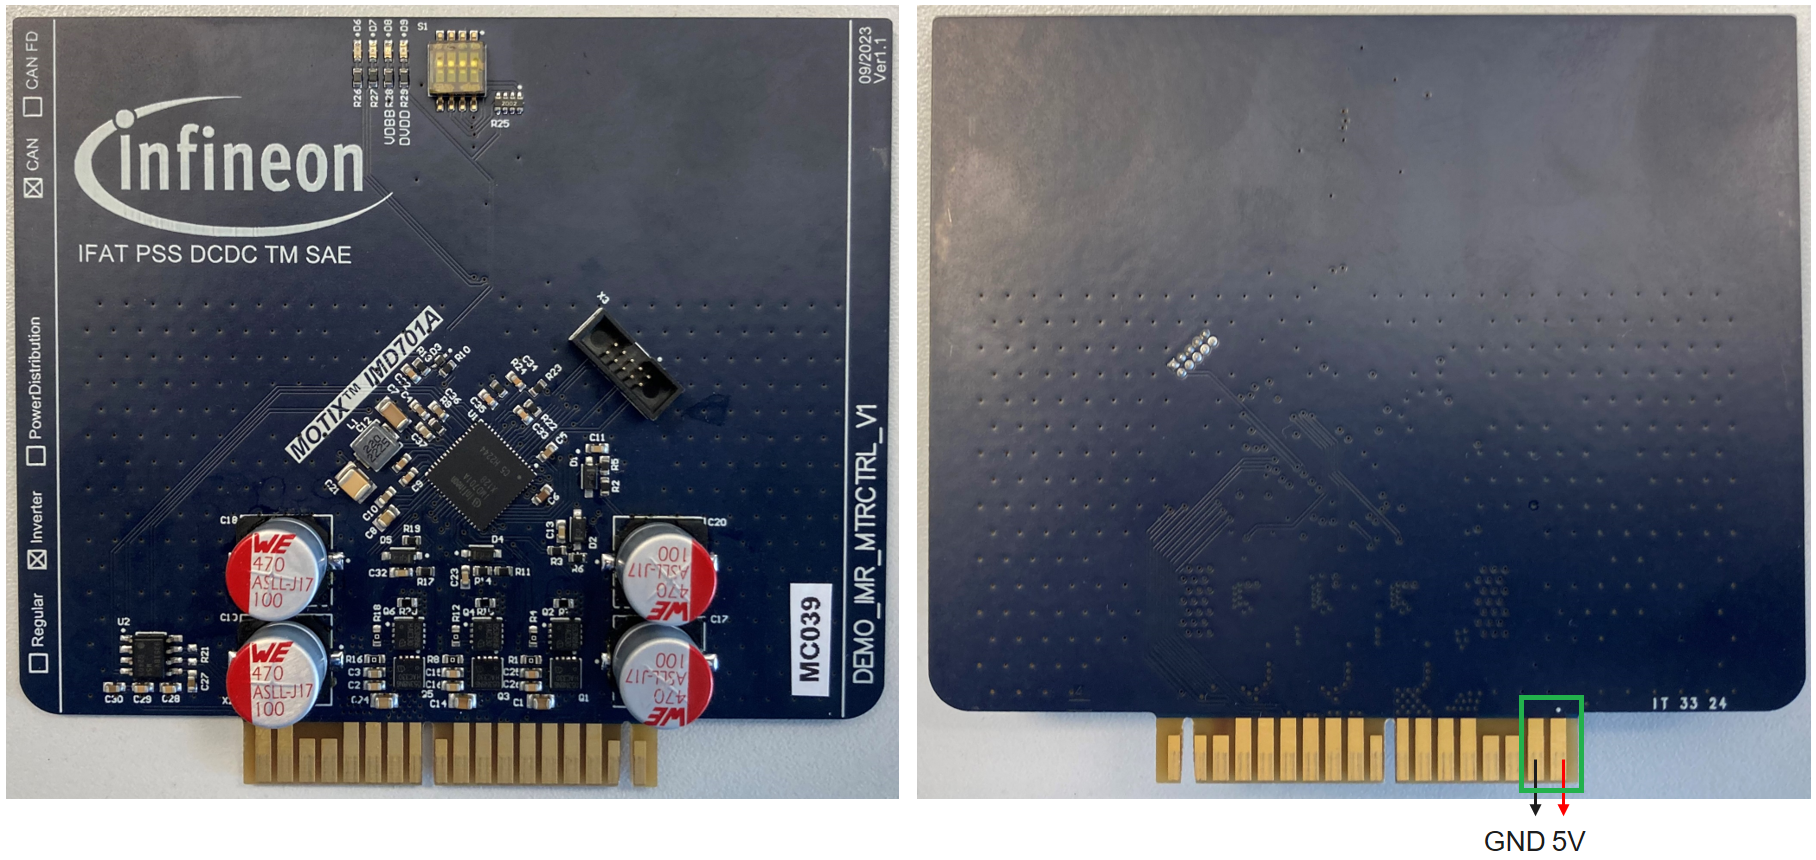
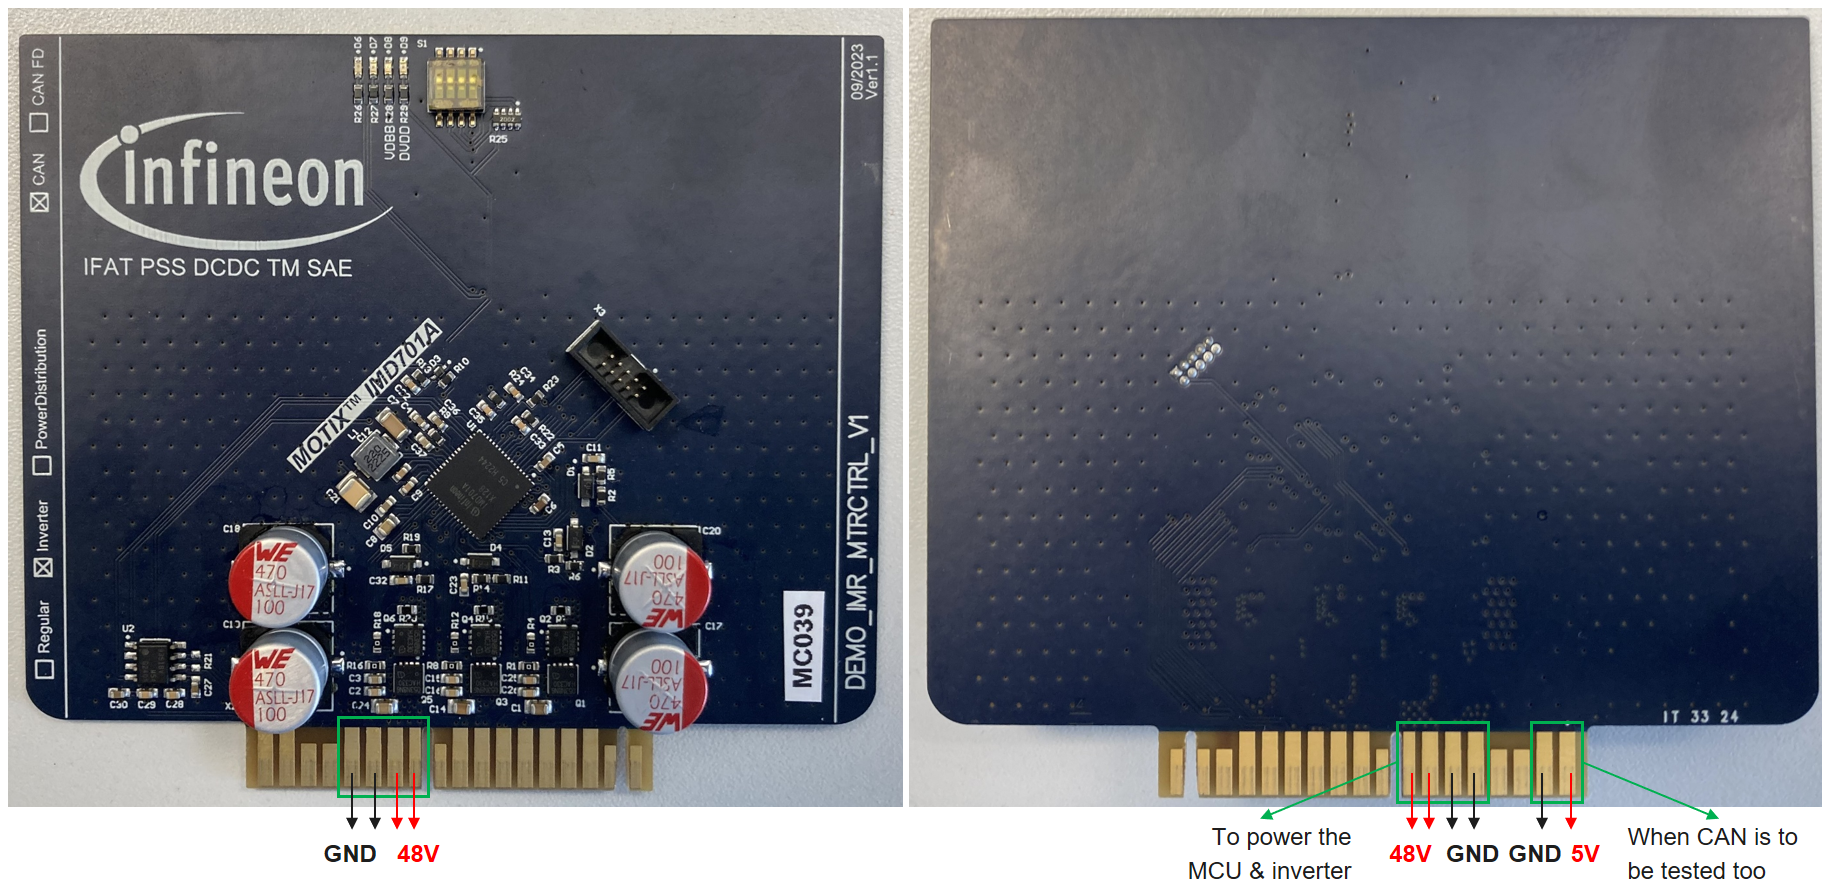
Fixed README instruction error on step 13

diff --git a/README.md b/README.md
@@ -150,7 +150,7 @@ SPDX-License-Identifier: MIT
     <br>
     &nbsp;
 </li>
-<li> Before flashing the project onto the board, connect the XMC™ Link Programming adapter using the 10-pin flat cable and <a href="./assets/DEMO_IMR_PROGADPTR_V1@e7eacb3013a-zip">the programming adapter</a> to provide power to the board. If the programming adapter is not available, additional wires need to be connected to the edge-card pins as indicated in the image below. <br><br>
+<li> Before flashing the project onto the board, connect the XMC™ Link Programming adapter using the 10-pin flat cable and <a href="./assets/DEMO_IMR_PROGADPTR_V1@e7eacb3013a.zip">the programming adapter</a> to provide power to the board. If the programming adapter is not available, additional wires need to be connected to the edge-card pins as indicated in the image below. One 48V connection on bottom / top side is good enough to power up the MCU for the programming. <br><br>
 	<picture>
         <img src="./assets/images/MTB_Import_12.png">
     </picture>
